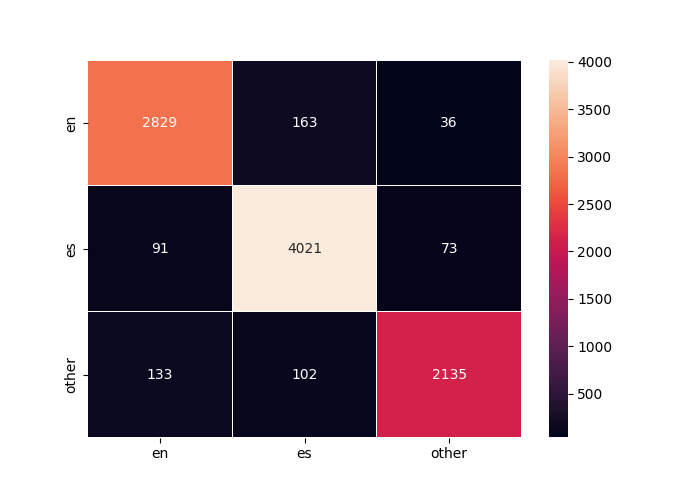
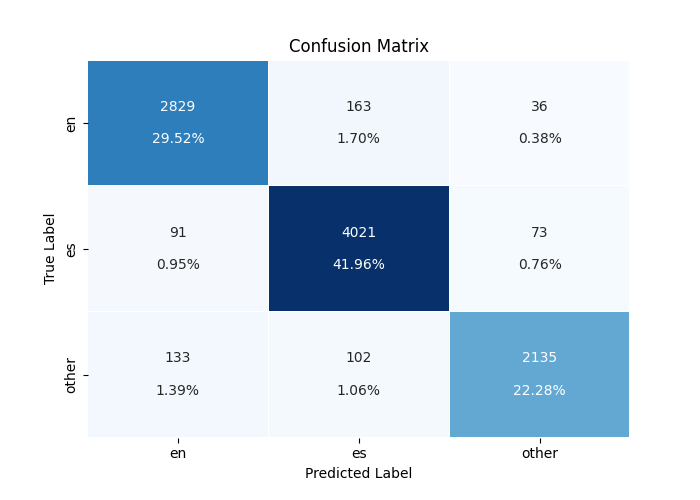
confusion matrix retouch

diff --git a/code/utils.py b/code/utils.py
@@ -3,6 +3,7 @@ from datetime import datetime
 from sklearn.metrics import f1_score, accuracy_score
 from sklearn.metrics import confusion_matrix, classification_report
 import seaborn as sns, pandas as pd
+import numpy as np
 
 import torch
 
@@ -74,10 +75,17 @@ def cls_report(best_model):
     print("Accuracy is :",ac)
     print(cr)
 
-    labels = pd.DataFrame(cm).applymap(lambda v: f"{v}" if v!=0 else f"")
     plt.figure(figsize=(7,5))
-    sns.heatmap(cm, annot=labels, fmt='s',
+    group_counts = [f"{value:0.0f}" for value in cm.flatten()]
+    group_percentages = [f"{value:.2%}" for value in cm.flatten()/np.sum(cm)]
+    labels = [f"{v1}\n\n{v2}" for v1, v2 in zip(group_counts,group_percentages)]
+    labels = np.asarray(labels).reshape(-1,len(Data.labels))
+    sns.heatmap(cm, annot=labels, fmt='s', cmap='Blues', cbar=False,
                 xticklabels=Data.labels, yticklabels=Data.labels, linewidths=0.1 )
+
+    plt.title("Confusion Matrix")
+    plt.xlabel("Predicted Label")
+    plt.ylabel("True Label")
     confmat_name = f'../images/ConfusionMatrix[{datetime.now().strftime("%y%m%d%H%M")}].png'
     plt.savefig(confmat_name, dpi=100)
     plt.show()

diff --git a/Changelog.md b/Changelog.md
@@ -2,6 +2,10 @@ TODO:
  * fine tunning to find the best parameters
  * tensorboardX
 
+===================================================================== July 28, 2022
+ * Adding labels for Confusion Matrix axises
+ * Revision of confusion matrix's labels
+
 ===================================================================== July 26, 2022
  * `ignore_index=0` for `CrossEntropyLoss` to ignore the padding index. This option Specifies a target value that is ignored and does not contribute to the input gradient resulting in lower computation consumption and the more accurate `loss` and `f1-score` as without the `ignore_index` all the paddings are also included in the criteria.
  * Revision of `flatten` function applying the sentences' lengths in order to compute the loss more accurately.
